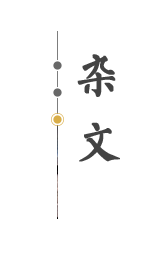
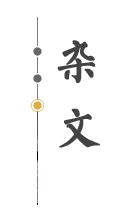
修改图片尺寸。 修改广场页。

diff --git a/xichao/templates/layout_ext.html b/xichao/templates/layout_ext.html
@@ -19,11 +19,13 @@
 			<!-- <h2>书评</h2> -->
 			<img class="opinion-title" src="{{ url_for('static', filename='images/shuping.png') }}"/>
 			<img id="square-part1-img" src="{{ url_for('static', filename='images/square.jpg') }}"/>
-			<div></div>
+
 		</div>
 
 		<!-- 内容 -->
 		<div class="square-part1-right">
+			<div class="opinion-headline-text">在充满美好憧憬的2015年，您有新的计划了吗？莫尼有一个建议：代码能早写就早写，别指望着deadline是第一生产力。熬夜写代码有害身体健康。这句话应该刻在主机上。
+			</div>
 			<table id="square-part1-content" style="width:703px">
 			{% for (article) in (book_review_list) %}
 				<tr>
@@ -45,12 +47,14 @@
 		<!-- 标题图片 -->
 		<div class="square-part1-left">
 			<!-- <h2>影评</h2> -->
-			<img  style="position:relative;left:28%;" src="{{ url_for('static', filename='images/yingping.png') }}"/>
+			<img  class="opinion-title" src="{{ url_for('static', filename='images/yingping.png') }}"/>
 			<img id="square-part1-img" src="{{ url_for('static', filename='images/square.jpg') }}"/>
 			<div></div>
 		</div>
 		<!-- 内容 -->
 		<div class="square-part1-right">
+			<div class="opinion-headline-text">在充满美好憧憬的2015年，您有新的计划了吗？莫尼有一个建议：代码能早写就早写，别指望着deadline是第一生产力。熬夜写代码有害身体健康。这句话应该刻在主机上。
+			</div>
 			<table id="square-part1-content" style="width:703px">
 			{% for (article) in (film_review_list) %}
 				<tr>
@@ -81,6 +85,8 @@
 		
 		<!-- 内容 -->
 		<div class="square-part1-right">
+			<div class="opinion-headline-text">在充满美好憧憬的2015年，您有新的计划了吗？莫尼有一个建议：代码能早写就早写，别指望着deadline是第一生产力。熬夜写代码有害身体健康。这句话应该刻在主机上。
+			</div>
 			<table id="square-part1-content" style="width:703px">
 			{% for (article) in (essay_list) %}
 				<tr>

diff --git a/xichao/static/css/square.css b/xichao/static/css/square.css
@@ -22,7 +22,7 @@ src: url(../fonts/liukai.ttf);
 }
 .opinion-title{
 	position:relative;
-	left:35%;
+	left:39%;
 }
 .opinion-author-text{
 	position:relative;
@@ -32,6 +32,16 @@ src: url(../fonts/liukai.ttf);
 .opinion-line{
 	position:relative;
 	bottom:120px;
+}
+.opinion-headline-text{
+	position:relative;
+	bottom:200px;
+	font-family:liukai;
+	font-size:24px;
+	line-height:1.5;
+	color:#D9AE48;
+
+　　word-wrap:break-word;
 }
 .opinion-box{
 /*	background: url(../images/rectangle.png) no-repeat;*/
@@ -54,7 +64,10 @@ src: url(../fonts/liukai.ttf);
 #square-hot-article td{
 	padding-top: 25px;
 }
-
+#square-part1-content{
+	position:relative;
+	bottom:120px;
+}
 #square-hot-article img, #square-part1-content img{
 	width: 14px;
 	height: 14px;
@@ -181,8 +194,11 @@ a.square-more{
 }
 .square-part1-right{
 	position:relative;
-	top:195px;
+	top:210px;
 	left:-67px;
+
+	width: 700px;
+	height: 360px;
 }
 
 #square-part1-content, .square-part1-right > a, .square-part2-left > a{

diff --git a/xichao/static/css/main.css b/xichao/static/css/main.css
@@ -184,9 +184,14 @@ input:focus{
 /*content对齐*/
 #content{
     width: 1160px;
+    height:3100px;
     margin: auto;
 }
-
+#footer-rect{
+    width:100%;
+    height:100px;
+    background-color:#D9AE48;
+}
 .current-position{
     position: relative;
     height: 62px;
@@ -384,3 +389,4 @@ src: url(../fonts/liukai.ttf);
     border-right: 1px solid red; 
     float: left;
 }
+

diff --git a/xichao/templates/layout.html b/xichao/templates/layout.html
@@ -207,7 +207,7 @@
 
         <!--footer-->
         <div id="footer">
-
+            <div id="footer-rect"></div>
         </div>
     <script src="{{ url_for('static', filename='js/jquery-1.8.0.min.js') }}"></script>
     <script src="{{ url_for('static', filename='js/bootstrap.min.js') }}"></script>
